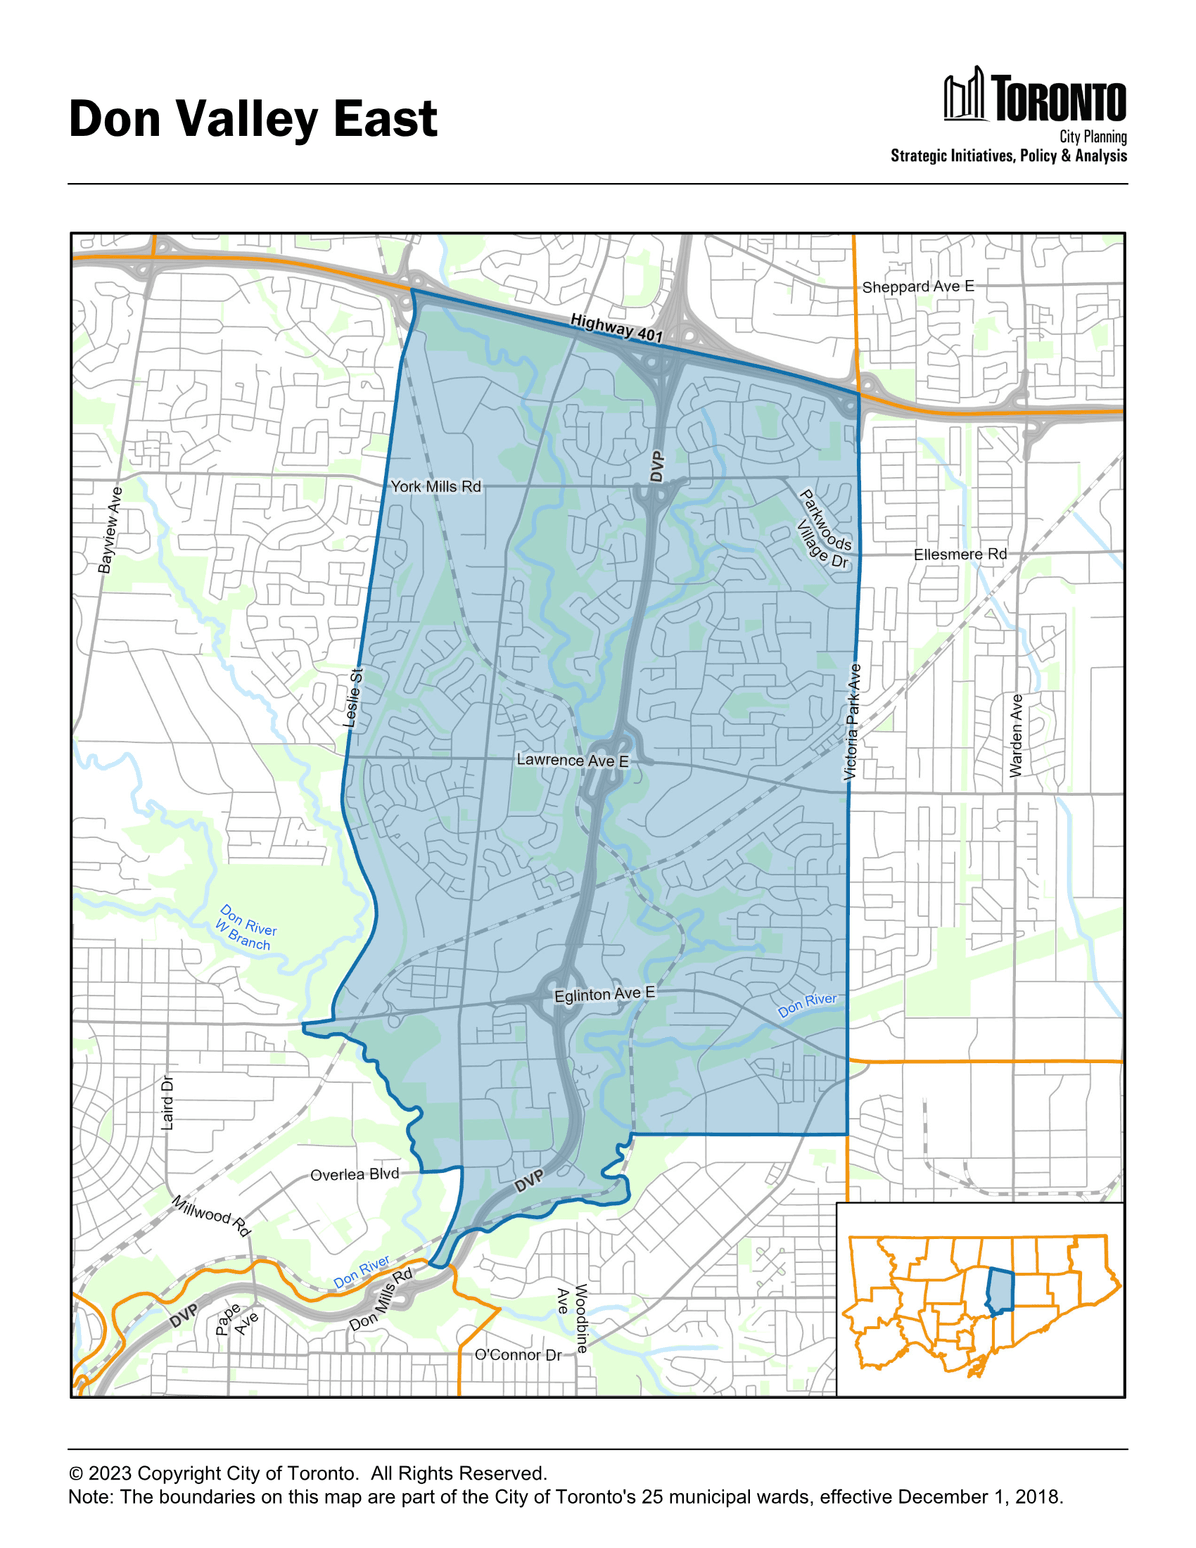
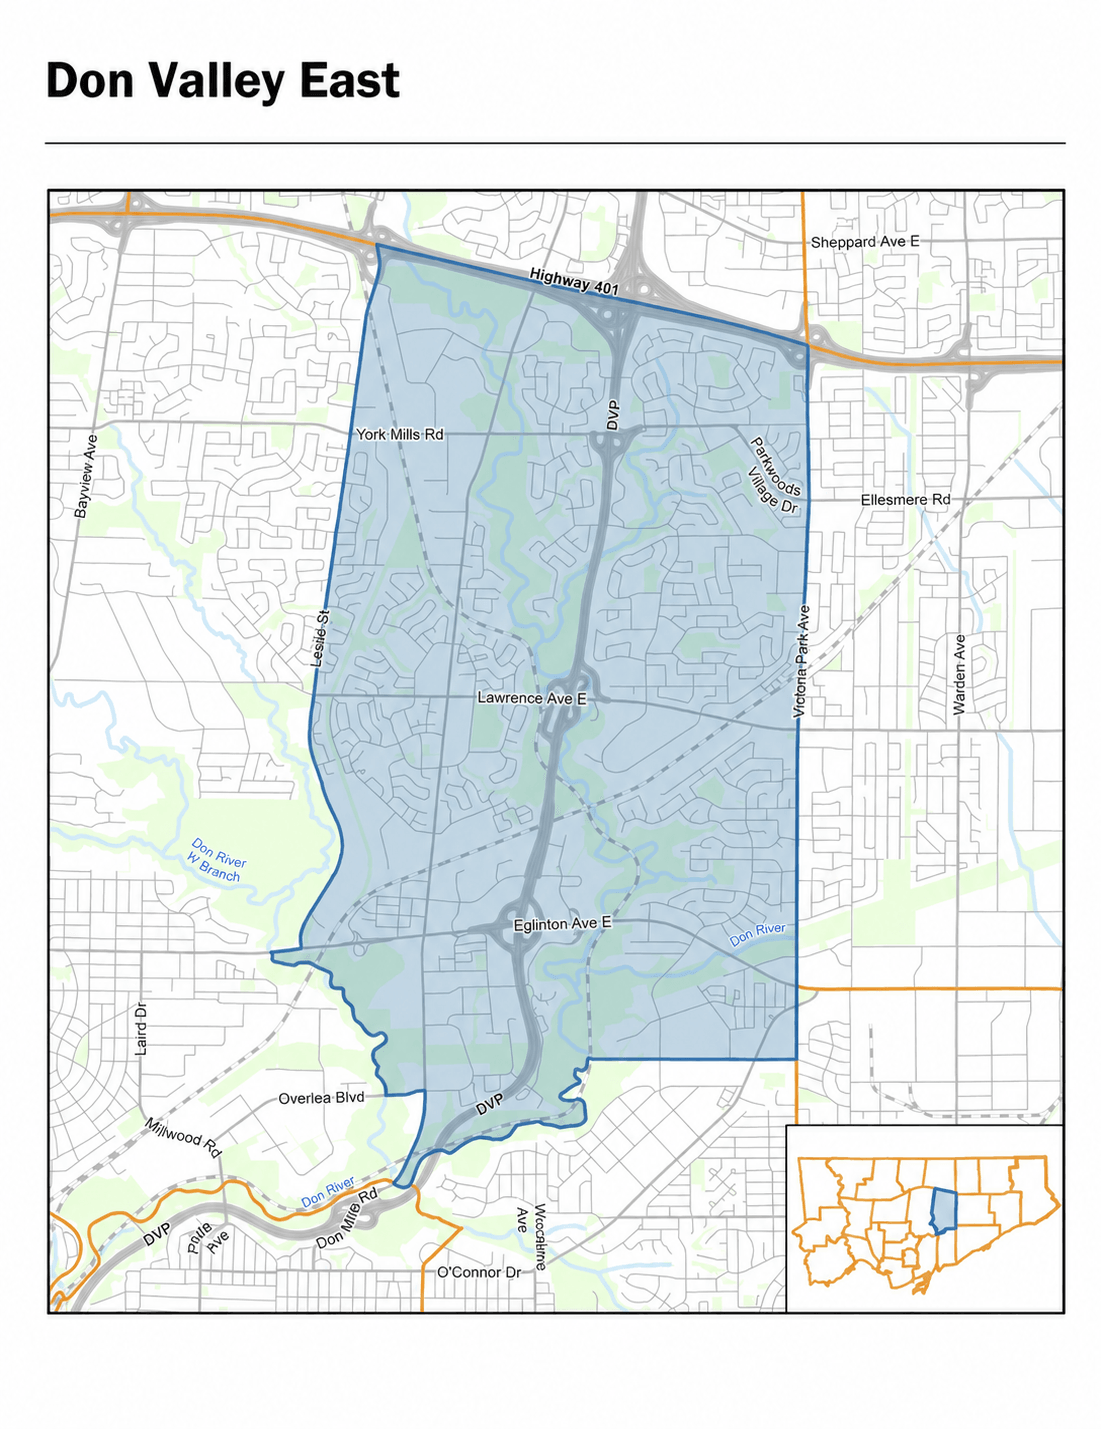
assets: update Ward 16 boundary map (client-supplied), 1101x1429
Client replaced ward-map.png; palette-compressed to 600KB and synced the
config's map width/height to the new intrinsic dimensions to keep the
layout-shift reservation correct.

diff --git a/src/config/candidate.ts b/src/config/candidate.ts
@@ -267,8 +267,8 @@ export const candidate: CandidateConfig = {
     map: {
       src: "/images/ward-map.png",
       alt: "Map of Toronto Ward 16 — Don Valley East, showing the ward boundary from Highway 401 south to the Don River valley between Leslie Street and Victoria Park Avenue",
-      width: 1196,
-      height: 1548,
+      width: 1101,
+      height: 1429,
     },
     landmarks: {
       heading: "Around Don Valley East",
